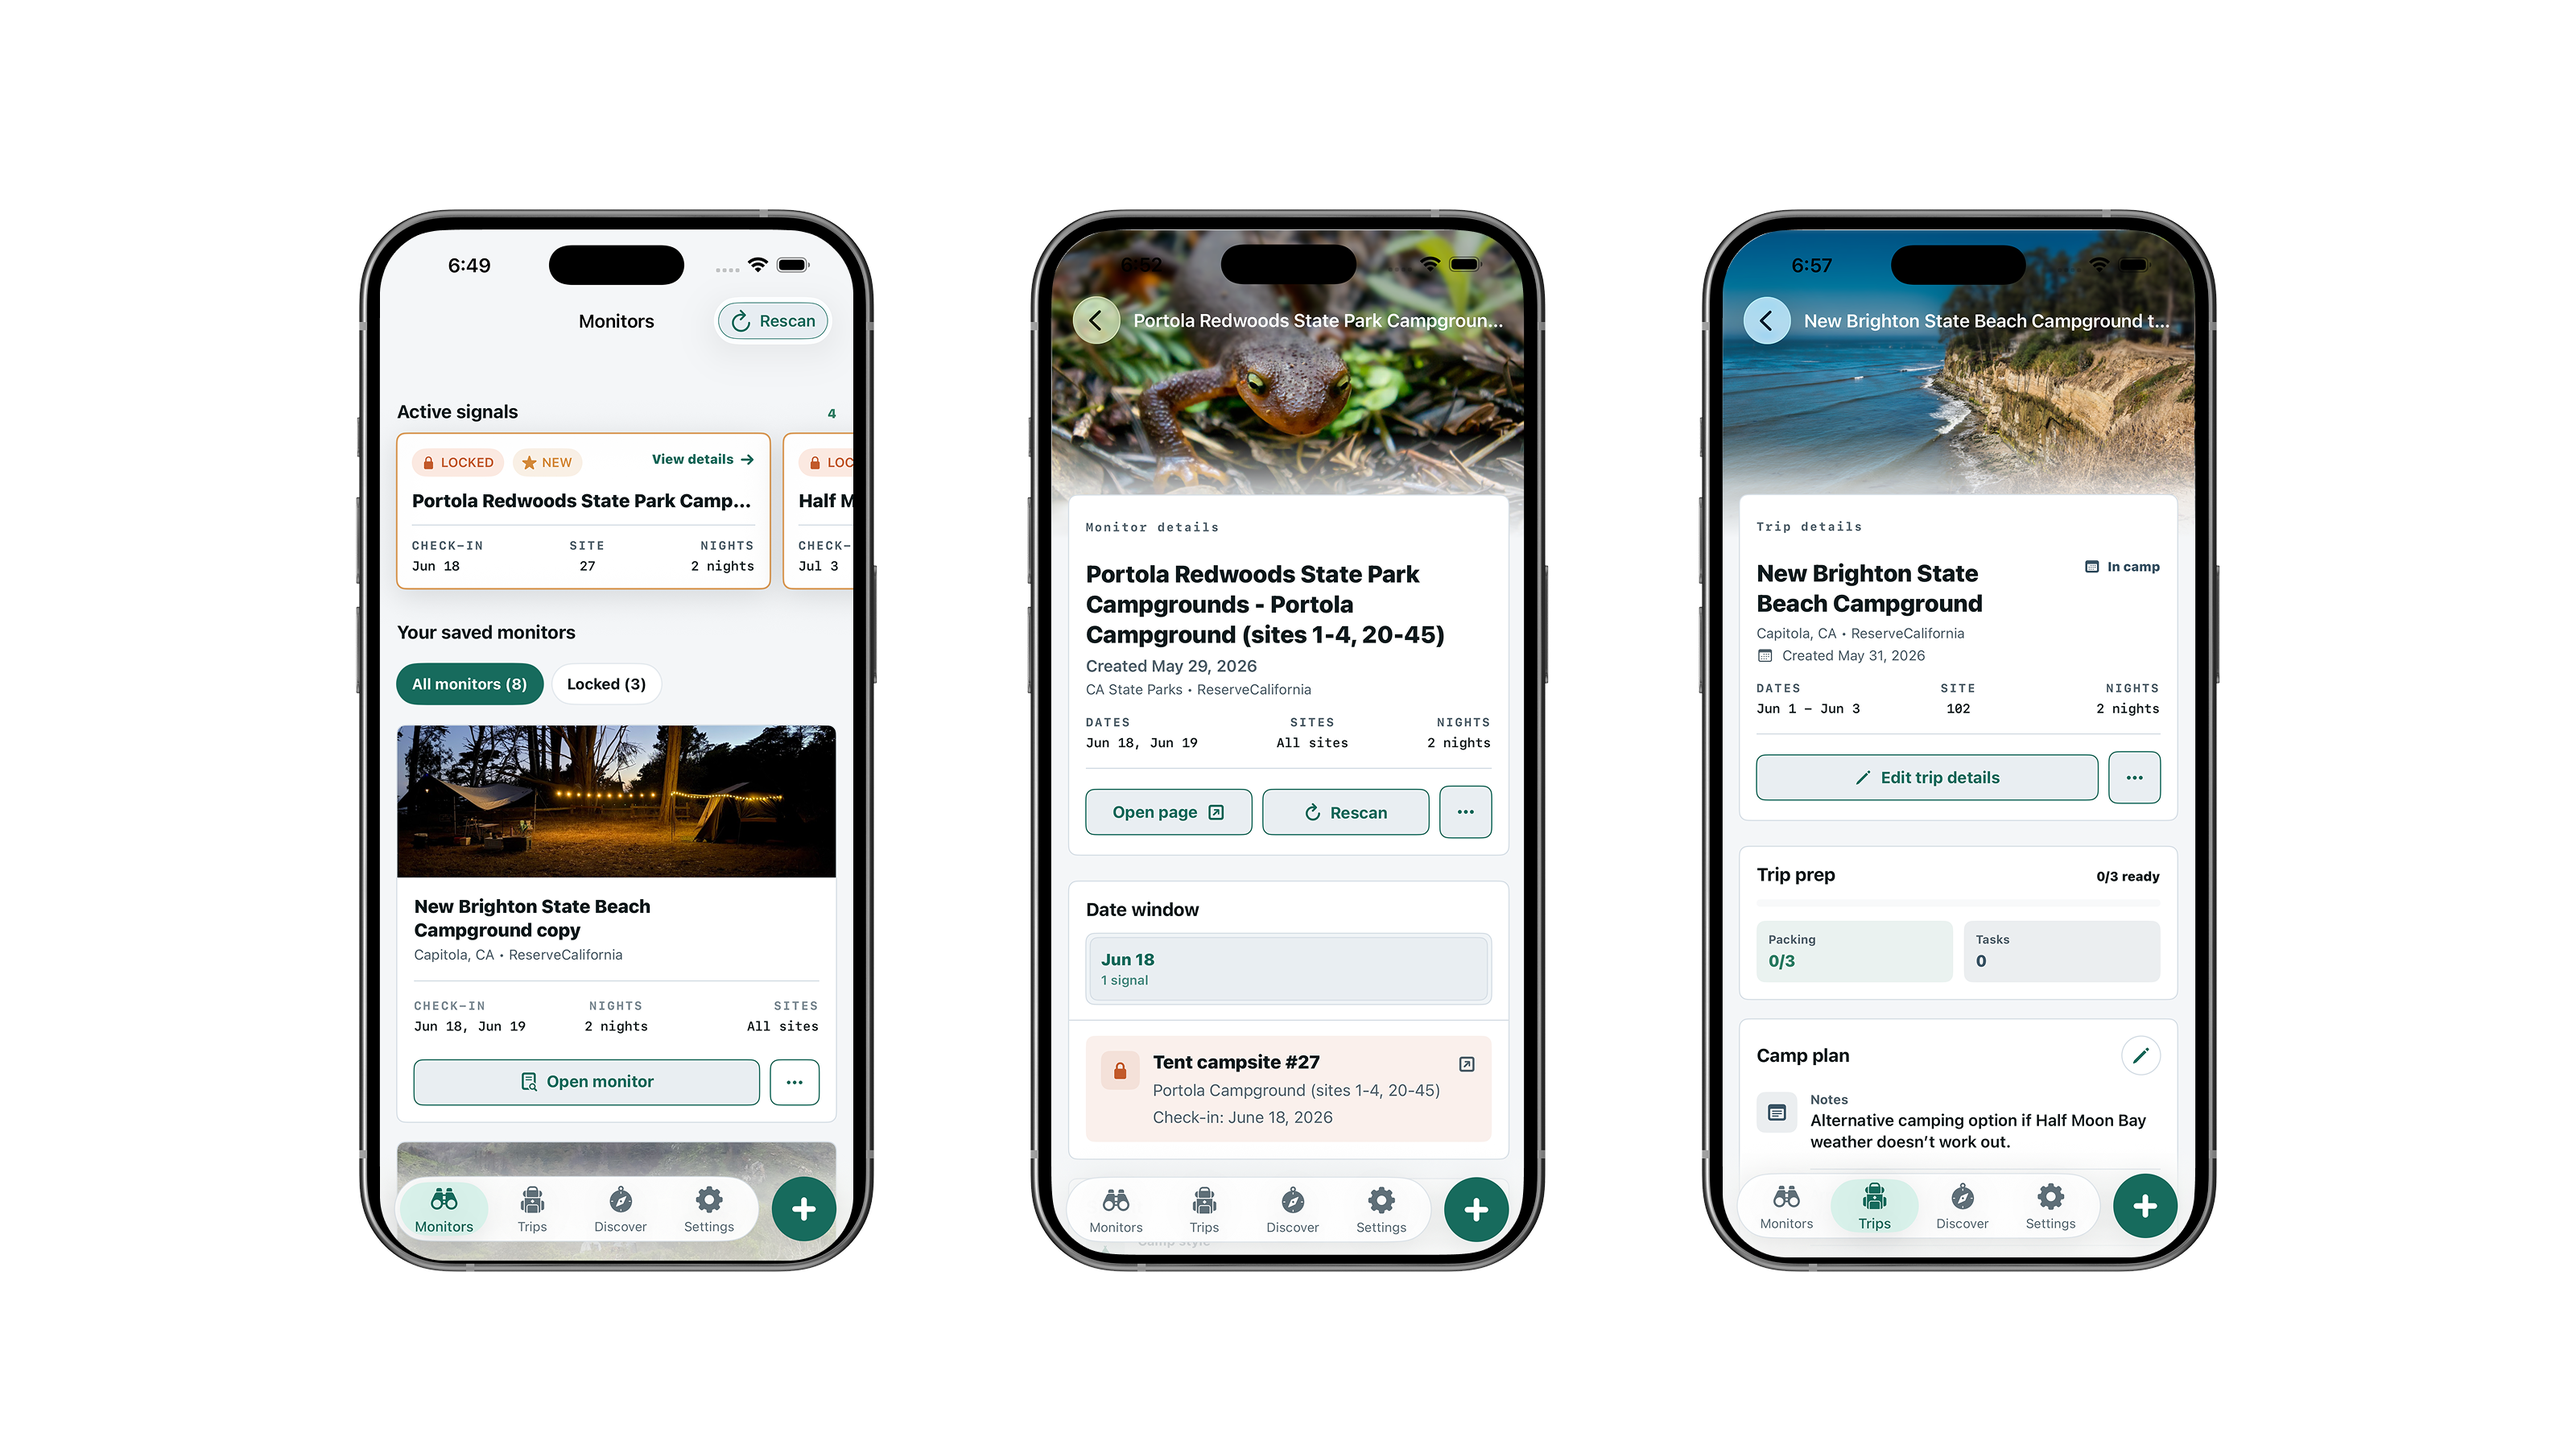
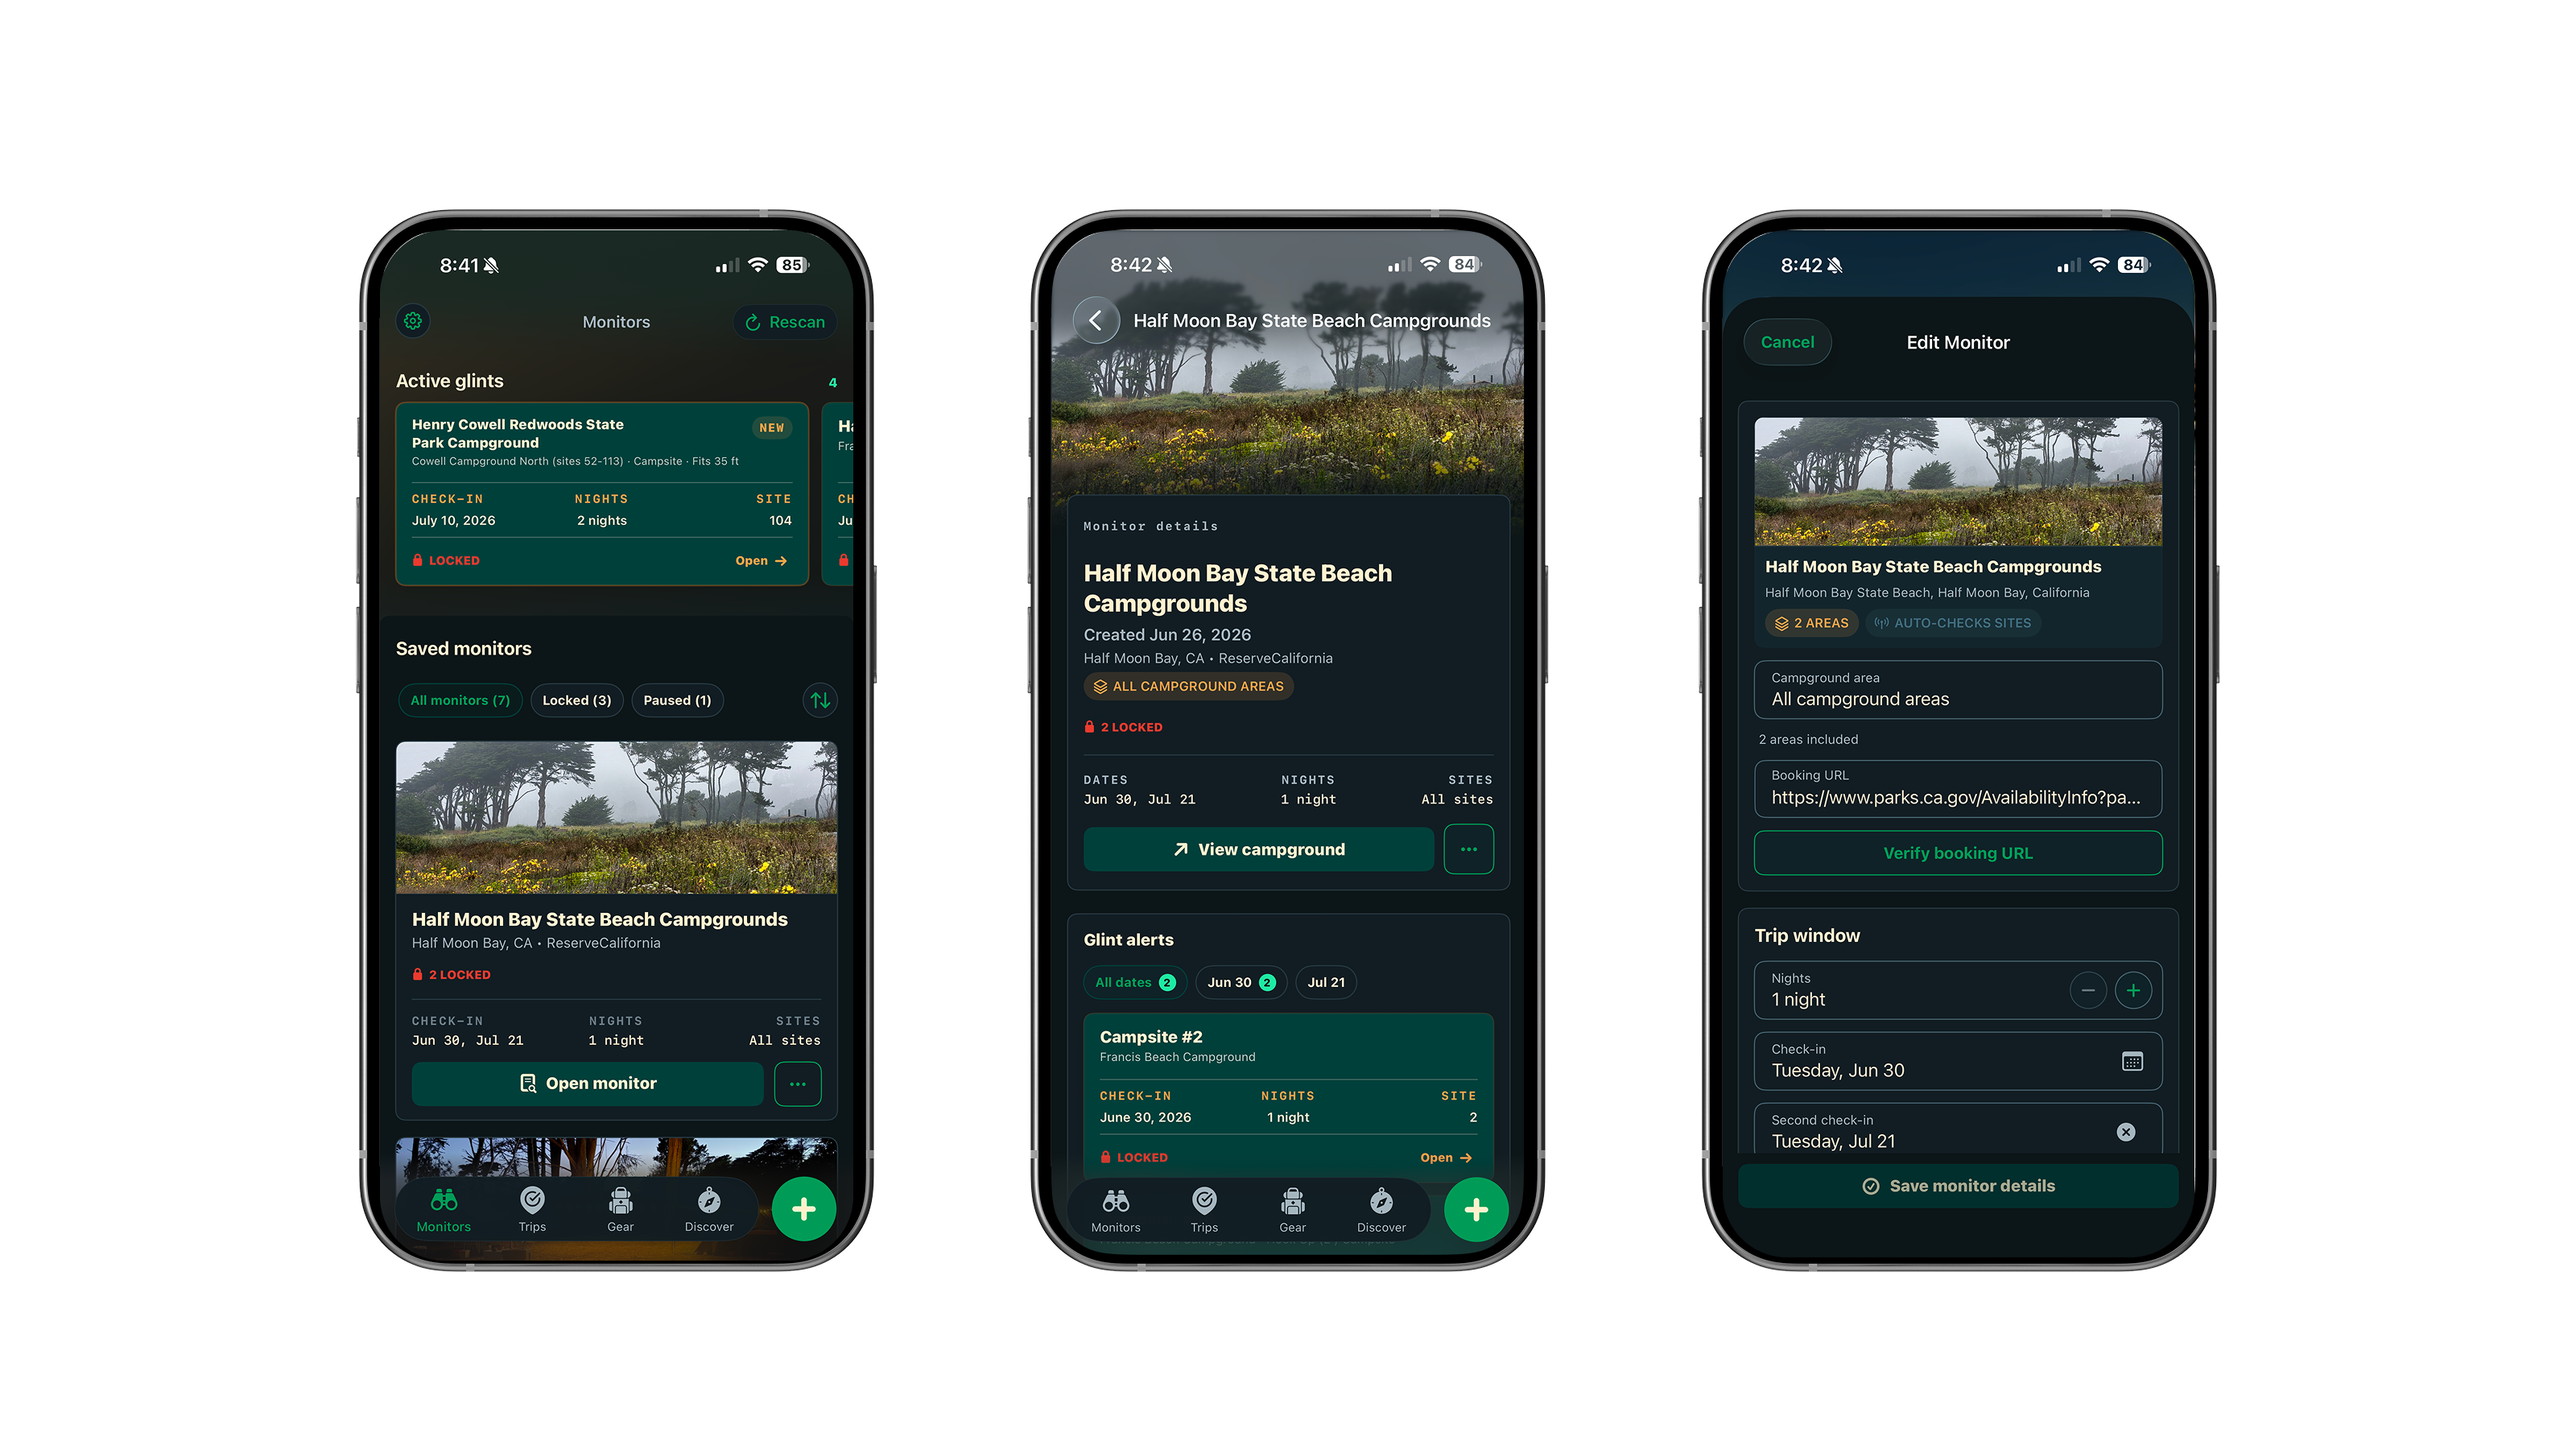
Update CampGlint screenshots

diff --git a/components/portfolio-content.tsx b/components/portfolio-content.tsx
@@ -333,7 +333,7 @@ export const caseStudies: CaseStudy[] = [
       ],
       proof: [
         "Monitors list and monitor detail",
-        "Create Monitor sheet and discovery recommendations",
+        "Create Monitor sheet and discovery profile",
         "Trip readiness flow and native system integrations",
       ],
     },
@@ -426,7 +426,7 @@ export const caseStudies: CaseStudy[] = [
       {
         title: "Discover",
         detail:
-          "Recommendation surface that helps campers find nearby or alternate campgrounds to watch based on starting points and travel intent.",
+          "Discovery profile and recommendation surface that help campers shape backup options around terrain, drive range, camp style, and travel intent.",
         icon: Compass,
       },
       {
@@ -446,7 +446,7 @@ export const caseStudies: CaseStudy[] = [
       "Auth-gated SwiftUI shell with session restore, signed-in state, and a native bottom-tab navigation model.",
       "Monitors flow with saved watch cards, provider labels, scan timing, alert state, booking handoff, and a rescan action.",
       "Create Monitor sheet with starting points, campground selection, trip window, stay length, flexible-date controls, and disabled-state validation.",
-      "Discover flow with active discovery profile, campground recommendations, provider context, availability cues, and watch actions.",
+      "Discover flow with active discovery profile, terrain preferences, drive-range signals, camp-style inputs, campground recommendations, and watch actions.",
       "Trips flow with confirmed-trip details, readiness progress, packing and task counts, site details, and empty/past-trip states.",
       "Native system integrations for notification scaffolding, deep links, App Intents, monitor/trip entities, and shortcut-ready actions.",
       "Shared SwiftUI visual system covering color, type, card treatments, empty states, controls, app icon, and reusable campground imagery.",
@@ -488,8 +488,8 @@ export const caseStudies: CaseStudy[] = [
         phase: "02",
         label: "Monitor detail",
         title: "Monitor detail turns a saved watch into a clear action surface",
-        image: "/projects/CampGlint/iOS%20app%20screens/02-monitor-detail-portola.png",
-        alt: "CampGlint iOS monitor detail screen",
+        image: "/projects/CampGlint/iOS%20app%20screens/02-monitor-detail-hal-moon-bay-1.PNG",
+        alt: "CampGlint iOS Half Moon Bay monitor detail screen",
         story:
           "The detail screen keeps campground context, trip timing, scan status, and booking handoff close to the saved monitor.",
         evidence: "Campground detail, reservation window, monitor status, provider context, availability signals, and booking handoff.",
@@ -498,7 +498,7 @@ export const caseStudies: CaseStudy[] = [
         phase: "03",
         label: "Create monitor",
         title: "Monitor creation keeps setup focused and reversible",
-        image: "/screenshots/campglint-case-study/ios-create-monitor.jpg",
+        image: "/projects/CampGlint/iOS%20app%20screens/03-create-monitor-1.PNG",
         alt: "CampGlint iOS create monitor sheet",
         story:
           "The setup flow keeps campground selection, trip timing, stay length, and flexible-date controls in one native sheet so users can start a watch without committing to every detail upfront.",
@@ -507,22 +507,22 @@ export const caseStudies: CaseStudy[] = [
       {
         phase: "04",
         label: "Discover",
-        title: "Discovery gives users backup options worth watching",
-        image: "/projects/CampGlint/iOS%20app%20screens/05-discover-recommendations.png",
-        alt: "CampGlint iOS discover recommendations screen",
+        title: "Discovery uses camper preferences to shape backup options",
+        image: "/projects/CampGlint/iOS%20app%20screens/07-discovery-profile.PNG",
+        alt: "CampGlint iOS discovery profile preferences screen",
         story:
-          "Discover supports the moment before a user has a fixed destination by recommending alternate campgrounds that can become monitors.",
-        evidence: "Starting points, discovery profile, recommendation card, campground image, provider context, and watch-oriented next step.",
+          "Discover supports the moment before a user has a fixed destination by letting campers tune the kinds of backup campgrounds the product should prioritize.",
+        evidence: "Discovery profile state, terrain preferences, drive-range signals, camp-style inputs, and preference-based backup discovery.",
       },
       {
         phase: "05",
         label: "Trips",
         title: "After a booking, the app shifts into readiness",
-        image: "/projects/CampGlint/iOS%20app%20screens/04-trip-detail-new-brighton.png",
-        alt: "CampGlint iOS trip detail screen",
+        image: "/projects/CampGlint/iOS%20app%20screens/04-trip-details.PNG",
+        alt: "CampGlint iOS Fernwood trip detail screen",
         story:
           "Trips keeps confirmed reservation details and preparation tasks close to the same product loop that helped the user find availability.",
-        evidence: "Confirmed Upper Pines trip, date and site detail, readiness section, packing/tasks, and past-trip empty state.",
+        evidence: "Confirmed trip details, dates, site number, readiness progress, packing status, tasks, and camp-plan notes.",
       },
     ],
     outcomesTitle: "What the product now supports",
@@ -1908,7 +1908,7 @@ const storyMetaLogos: Record<string, { src: string; alt: string }> = {
     alt: "LinkedIn",
   },
   CampGlint: {
-    src: "/screenshots/campglint-case-study/campglint-app-icon.png",
+    src: "/screenshots/campglint-case-study/CampGlint-Icon-Light.png",
     alt: "CampGlint",
   },
   GraphicSnack: {
@@ -2753,8 +2753,8 @@ const caseStudyWhySections: Record<string, { title: string; body: string; points
 const campGlintPreviewScreens = [
   {
     label: "Discover",
-    src: "/projects/CampGlint/iOS%20app%20screens/05-discover-recommendations.png",
-    alt: "CampGlint iOS discover recommendations screen",
+    src: "/projects/CampGlint/iOS%20app%20screens/07-discovery-profile.PNG",
+    alt: "CampGlint iOS discovery profile preferences screen",
   },
   {
     label: "Monitors",
@@ -2763,7 +2763,7 @@ const campGlintPreviewScreens = [
   },
   {
     label: "Trips",
-    src: "/projects/CampGlint/iOS%20app%20screens/04-trip-detail-new-brighton.png",
+    src: "/projects/CampGlint/iOS%20app%20screens/04-trip-details.PNG",
     alt: "CampGlint iOS trip detail screen",
   },
 ];
